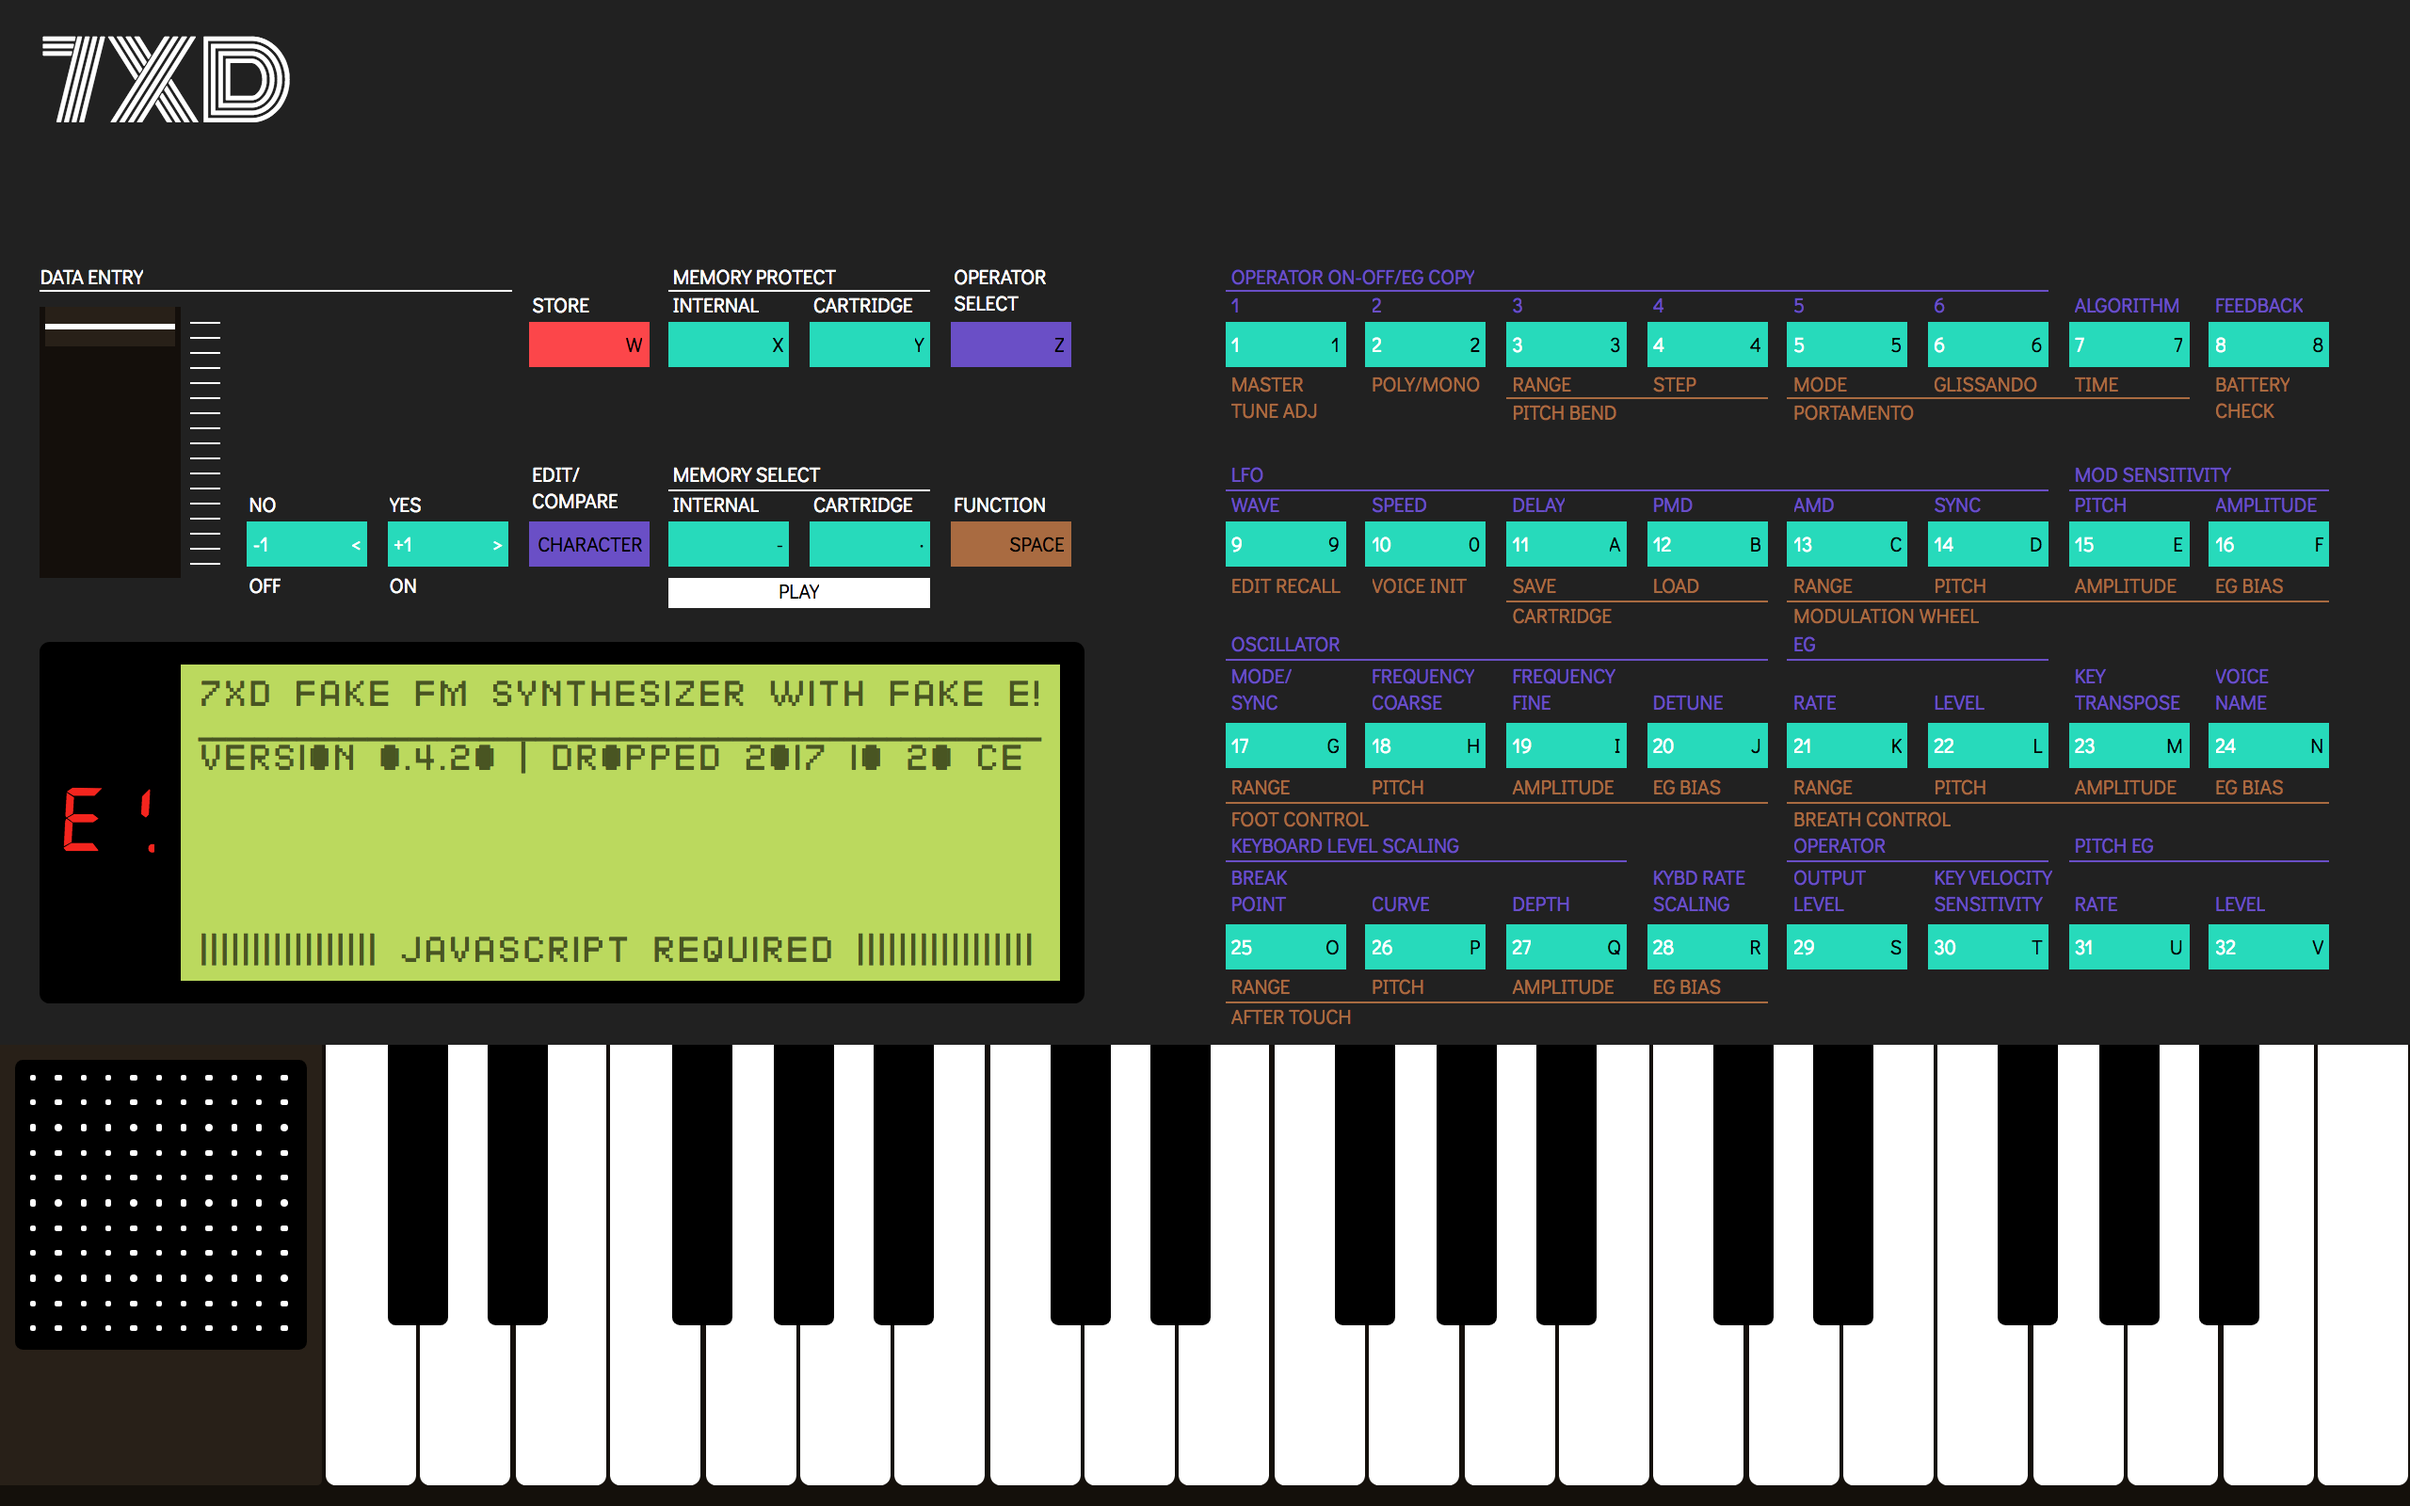
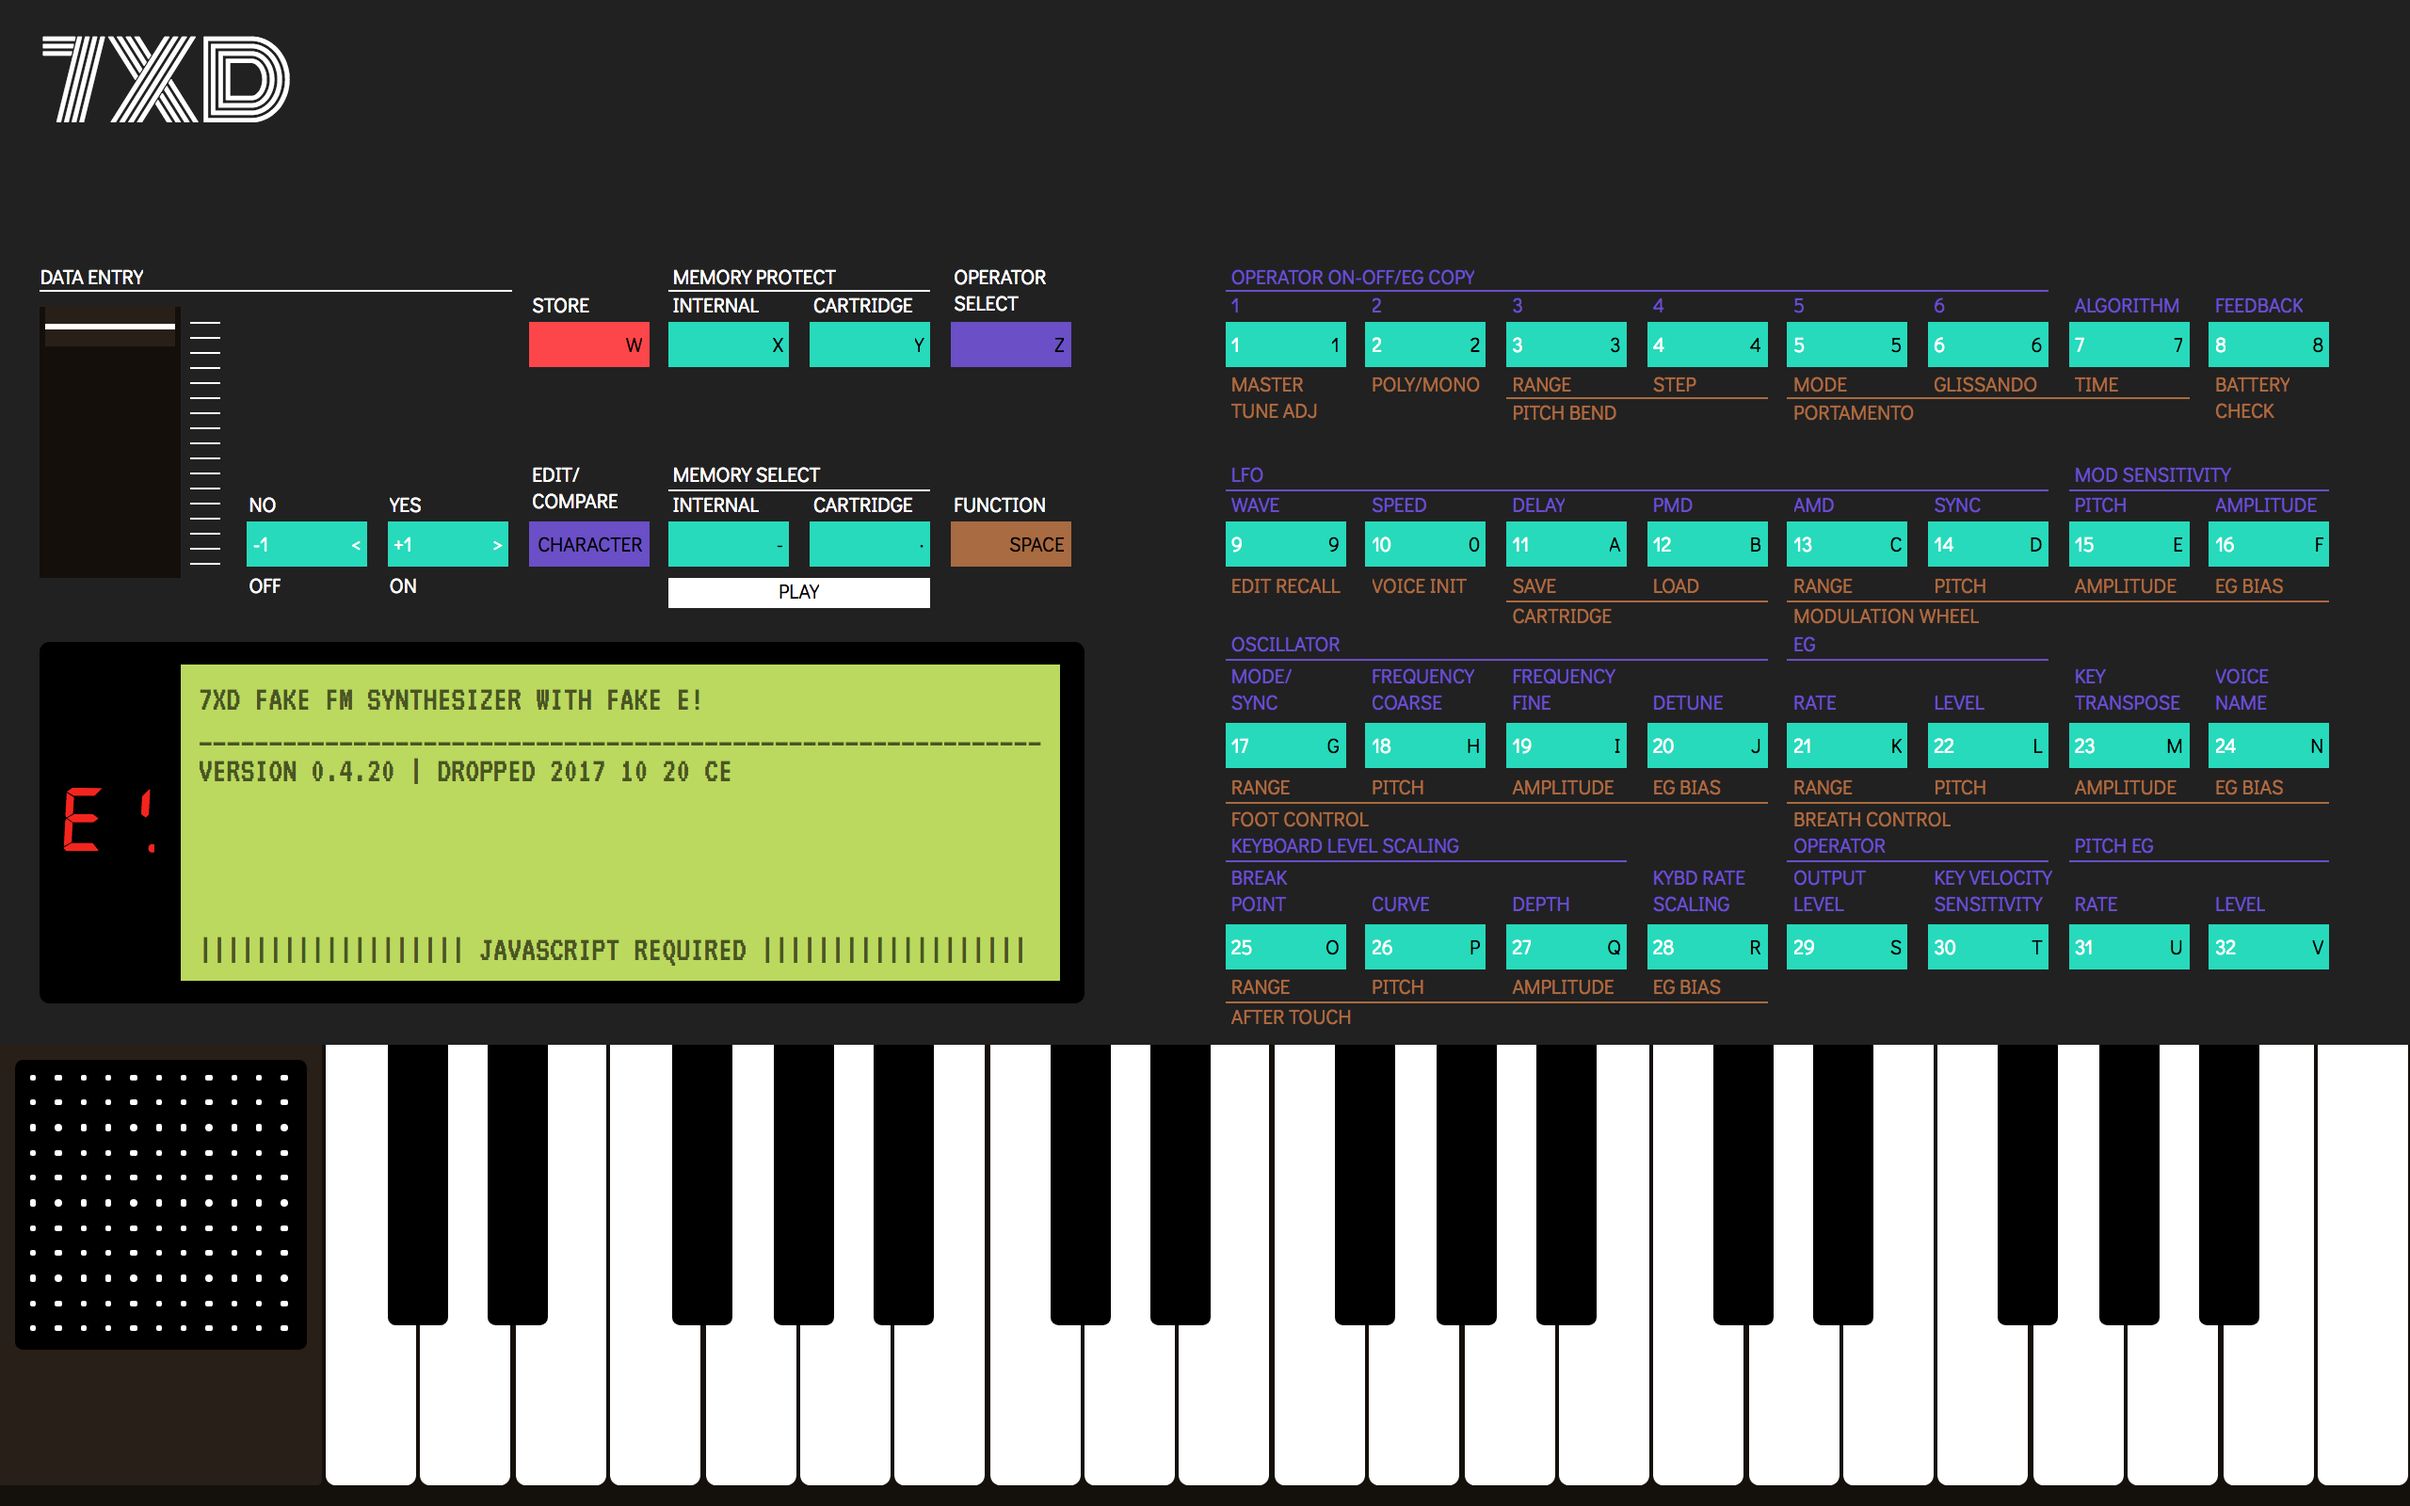
Expansion in the management interface
Fixed updating changed value on display, set up templates for remaining button assignments, set up basic memory structure

Changed region(s): [[0.0625, 0.4375, 0.4375, 0.5312], [0.0625, 0.625, 0.4375, 0.6562]]

diff --git a/script.js b/script.js
@@ -2,9 +2,28 @@ $(document).ready(function() {
 
   // CURRENT PARAMETER
   var cp;
+
+  // CURRENT PARAMETER SIEVE (0=NUMBER,1=TEXT)
+  var cps;
+
   // FRAMEBUFFER UPDATE
   function fbu (fb) {
     $("#mm").html(fb);
+  }
+
+  // DATA VALUE UPDATE - WIP
+  function fbdu (cp, cps) {
+    if (cps) {
+      $("#dt").html(rat(cp));
+    }
+    else {
+      $("#dt").html(cp);
+    }
+  }
+
+  // LED UPDATE
+  function ltu (lt) {
+    $("#rn").html(lt);
   }
 
   // READ AS TOGGLE
@@ -27,16 +46,317 @@ $(document).ready(function() {
 
   // BUTTON FUNCTION ASSIGNMENTS
   var bf = {
-    b1 : function () {cp -= 1;},
-    b2 : function () {cp += 1;},
+    // DECREASE BUTTON
+    b1 : function () {cp -= 1;fbdu(cp,cps);},
+    // INCREASE BUTTON
+    b2 : function () {cp += 1;fbdu(cp,cps);},
+
     b3 : function () {/*STORE*/},
+    // MEMORY PROTECT: INTERNAL
     b4 : function () {
       cp = mpi; // STOPPED HERE, 2017 10 20
-      fbu("MEMORY PROTECT<br>INTERNAL="+rat(mpi));
+      cps = 1;
+      fbu("MEMORY PROTECT<br>INTERNAL=<span id=\'dt\'>"+rat(mpi)+"</span>");
     },
-    b5 : function () {fbu("MEMORY PROTECT<br>CARTRIDGE="+rat(mpc));}
+    // MEMORY PROTECT: CARTRIDGE
+    b5 : function () {
+      cp = mpi;
+      cps = 1;
+      fbu("MEMORY PROTECT<br>CARTRIDGE=<span id=\'dt\'>"+rat(mpc)+"</span>");
+    },
+    // OPERATOR SELECT
+    b6: function () {},
+
+    // EDIT/COMPARE
+    b7: function () {},
+    // MEMORY SELECT : INTERNAL
+    b8: function () {},
+    // MEMORY SELECT : CARTRIDGE
+    b9: function () {},
+    // FUNCTION
+    ba: function () {},
+
+    // 1
+    bb: function () {},
+    // 2
+    bc: function () {},
+    // 3
+    bd: function () {},
+    // 4
+    be: function () {},
+    // 5
+    bf: function () {},
+    // 6
+    b10: function () {},
+    // 7
+    b11: function () {},
+    // 8
+    b12: function () {},
+
+    // 9
+    b13: function () {},
+    // 10
+    b14: function () {},
+    // 11
+    b15: function () {},
+    // 12
+    b16: function () {},
+    // 13
+    b17: function () {},
+    // 14
+    b18: function () {},
+    // 15
+    b19: function () {},
+    // 16
+    b1a: function () {},
+
+    // 17
+    b1b: function () {},
+    // 18
+    b1c: function () {},
+    // 19
+    b1d: function () {},
+    // 20
+    b1e: function () {},
+    // 21
+    b1f: function () {},
+    // 22
+    b20: function () {},
+    // 23
+    b21: function () {},
+    // 24
+    b22: function () {},
+
+    // 25
+    b23: function () {},
+    // 26
+    b24: function () {},
+    // 27
+    b25: function () {},
+    // 28
+    b26: function () {},
+    // 29
+    b27: function () {},
+    // 30
+    b28: function () {},
+    // 31
+    b29: function () {},
+    // 32
+    b2a: function () {}
   }
 
-
+  // INTERNAL MEMORY
+  var im = {
+    algorithm: 32,
+    feedback: 0,
+    pms: 0,
+    keytranspose: 0,
+    name: "INITVOICE",
+    // OPERATOR 1
+    op1: {
+      // OSCILLATOR
+      toggle: 1,
+      mode: 0,
+      sync: 0,
+      coarse: 0,
+      fine: 0,
+      detune: 0,
+      // EG
+      egrate1: 0,
+      egrate2: 0,
+      egrate3: 0,
+      egrate4: 0,
+      eglevel1: 0,
+      eglevel2: 0,
+      eglevel3: 0,
+      eglevel4: 0,
+      // KEYBOARD LEVEL SCALING
+      breakpoint: 0,
+      leftcurve: 0,
+      rightcurve: 0,
+      leftdepth: 0,
+      rightdepth: 0,
+      ratescaling: 0,
+      // AMPLITUDE MODULATION SENSITIVITY
+      ams: 0,
+      // INTEGRATION
+      level: 99,
+      vs: 0 //VELOCITY SENSITIVITY
+    },
+    // OPERATOR 2
+    op2: {
+      // OSCILLATOR
+      toggle: 1,
+      mode: 0,
+      sync: 0,
+      coarse: 0,
+      fine: 0,
+      detune: 0,
+      // EG
+      egrate1: 0,
+      egrate2: 0,
+      egrate3: 0,
+      egrate4: 0,
+      eglevel1: 0,
+      eglevel2: 0,
+      eglevel3: 0,
+      eglevel4: 0,
+      // KEYBOARD LEVEL SCALING
+      breakpoint: 0,
+      leftcurve: 0,
+      rightcurve: 0,
+      leftdepth: 0,
+      rightdepth: 0,
+      ratescaling: 0,
+      // AMPLITUDE MODULATION SENSITIVITY
+      ams: 0,
+      // INTEGRATION
+      level: 99,
+      vs: 0 //VELOCITY SENSITIVITY
+    },
+    // OPERATOR 3
+    op3: {
+      // OSCILLATOR
+      toggle: 1,
+      mode: 0,
+      sync: 0,
+      coarse: 0,
+      fine: 0,
+      detune: 0,
+      // EG
+      egrate1: 0,
+      egrate2: 0,
+      egrate3: 0,
+      egrate4: 0,
+      eglevel1: 0,
+      eglevel2: 0,
+      eglevel3: 0,
+      eglevel4: 0,
+      // KEYBOARD LEVEL SCALING
+      breakpoint: 0,
+      leftcurve: 0,
+      rightcurve: 0,
+      leftdepth: 0,
+      rightdepth: 0,
+      ratescaling: 0,
+      // AMPLITUDE MODULATION SENSITIVITY
+      ams: 0,
+      // INTEGRATION
+      level: 99,
+      vs: 0 //VELOCITY SENSITIVITY
+    },
+    // OPERATOR 4
+    op4: {
+      // OSCILLATOR
+      toggle: 1,
+      mode: 0,
+      sync: 0,
+      coarse: 0,
+      fine: 0,
+      detune: 0,
+      // EG
+      egrate1: 0,
+      egrate2: 0,
+      egrate3: 0,
+      egrate4: 0,
+      eglevel1: 0,
+      eglevel2: 0,
+      eglevel3: 0,
+      eglevel4: 0,
+      // KEYBOARD LEVEL SCALING
+      breakpoint: 0,
+      leftcurve: 0,
+      rightcurve: 0,
+      leftdepth: 0,
+      rightdepth: 0,
+      ratescaling: 0,
+      // AMPLITUDE MODULATION SENSITIVITY
+      ams: 0,
+      // INTEGRATION
+      level: 99,
+      vs: 0 //VELOCITY SENSITIVITY
+    },
+    // OPERATOR 5
+    op5: {
+      // OSCILLATOR
+      toggle: 1,
+      mode: 0,
+      sync: 0,
+      coarse: 0,
+      fine: 0,
+      detune: 0,
+      // EG
+      egrate1: 0,
+      egrate2: 0,
+      egrate3: 0,
+      egrate4: 0,
+      eglevel1: 0,
+      eglevel2: 0,
+      eglevel3: 0,
+      eglevel4: 0,
+      // KEYBOARD LEVEL SCALING
+      breakpoint: 0,
+      leftcurve: 0,
+      rightcurve: 0,
+      leftdepth: 0,
+      rightdepth: 0,
+      ratescaling: 0,
+      // AMPLITUDE MODULATION SENSITIVITY
+      ams: 0,
+      // INTEGRATION
+      level: 99,
+      vs: 0 //VELOCITY SENSITIVITY
+    },
+    // OPERATOR 6
+    op1: {
+      // OSCILLATOR
+      toggle: 1,
+      mode: 0,
+      sync: 0,
+      coarse: 0,
+      fine: 0,
+      detune: 0,
+      // EG
+      egrate1: 0,
+      egrate2: 0,
+      egrate3: 0,
+      egrate4: 0,
+      eglevel1: 0,
+      eglevel2: 0,
+      eglevel3: 0,
+      eglevel4: 0,
+      // KEYBOARD LEVEL SCALING
+      breakpoint: 0,
+      leftcurve: 0,
+      rightcurve: 0,
+      leftdepth: 0,
+      rightdepth: 0,
+      ratescaling: 0,
+      // AMPLITUDE MODULATION SENSITIVITY
+      ams: 0,
+      // INTEGRATION
+      level: 99,
+      vs: 0 //VELOCITY SENSITIVITY
+    },
+    // LOW FREQUENCY OSCILLATOR
+    lfo: {
+      wave: 0,
+      speed: 0,
+      delay: 0,
+      pmd: 0,
+      amd: 0,
+      sync: 0
+    },
+    pitcheg: {
+      rate1: 0,
+      rate2: 0,
+      rate3: 0,
+      rate4: 0,
+      level1: 0,
+      level2: 0,
+      level3: 0,
+      level4: 0
+    }
+  }
 
 });

diff --git a/style.css b/style.css
@@ -1,7 +1,7 @@
 @import url('https://fonts.googleapis.com/css?family=Didact+Gothic');
 @import url('https://fonts.googleapis.com/css?family=Monoton');
 @import url('https://fontlibrary.org/face/segment7');
-@import url('https://fontlibrary.org/face/pixelated');
+@import url('https://fonts.googleapis.com/css?family=VT323');
 
 /* BASE RULES */
 * {
@@ -114,13 +114,16 @@ body {
 	left: 4em;
 	height: 9em;
 	width: 25em;
-	font-family: 'SFPixelateRegular';
-	font-weight: normal;
-	font-style: normal;
+	font-family: 'VT323', monospace;
 	font-size: 14pt;
 	padding: 0.5em;
 	color: #49561e;
 	overflow-y: hidden;
+}
+
+#mm span {
+	font-family: 'VT323', monospace;
+	font-size: 14pt;
 }
 
 /* BUTTON COLUMNS */

diff --git a/index.html b/index.html
@@ -68,8 +68,8 @@
 					<div id="mm">
 						7XD FAKE FM SYNTHESIZER WITH FAKE E!<br>
 						____________________________________________________________<br>
-						VERSION 0.4.20 | DROPPED 2017 10 20 CE<br><br><br><br><br><br>
-						||||||||||||||||| JAVASCRIPT REQUIRED |||||||||||||||||
+						VERSION 0.4.20 | DROPPED 2017 10 20 CE<br><br><br><br><br>
+						||||||||||||||||||| JAVASCRIPT REQUIRED |||||||||||||||||||
 					</div>
 				</div>
 				<!-- NAVIGATION BLOCK (ROW 1) -->

diff --git a/README.md b/README.md
@@ -6,4 +6,4 @@ Made possible especially by:
 * Didact Gothic
 * Monoton
 * Segment7
-* Pixelated
+* VT323
